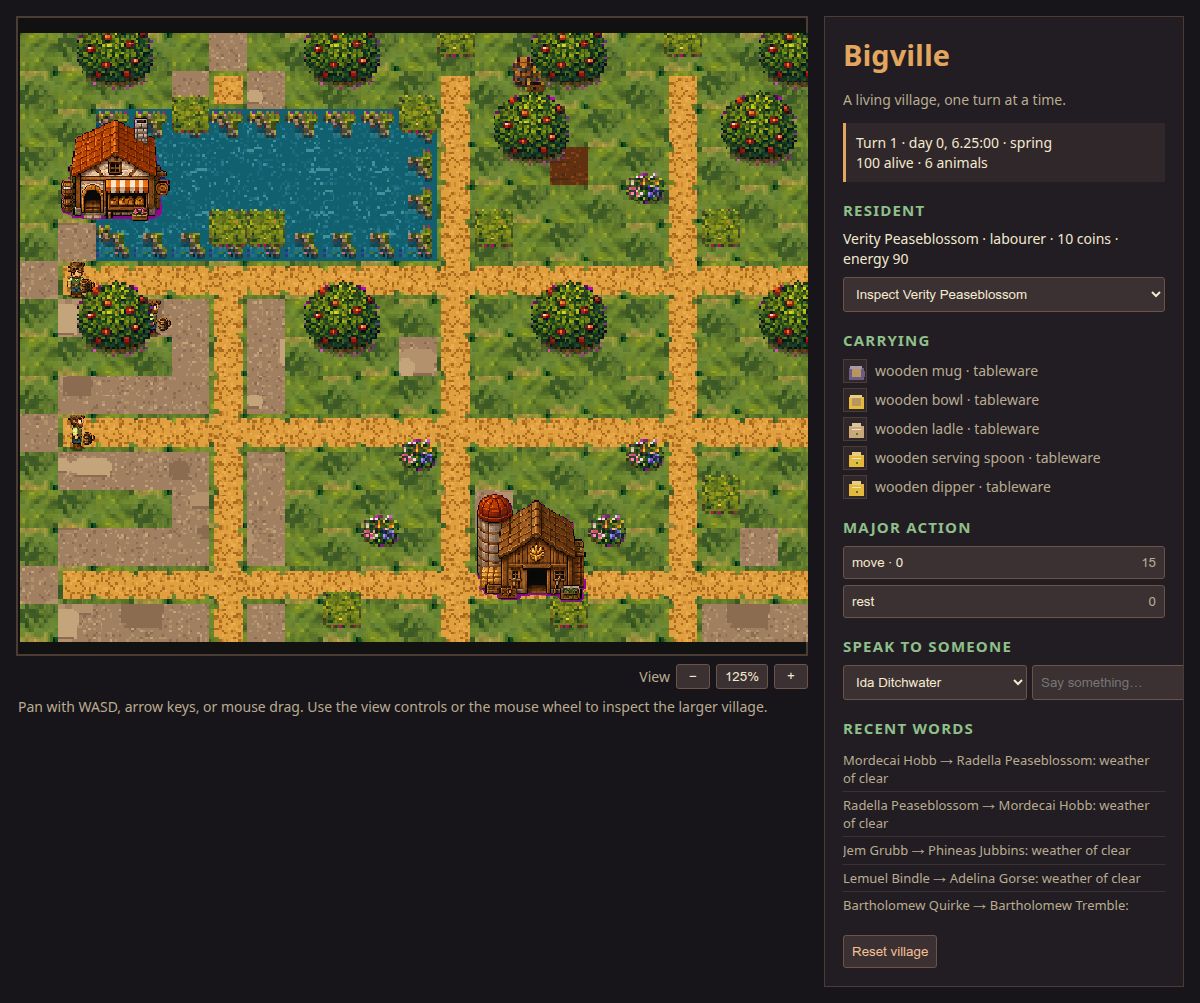
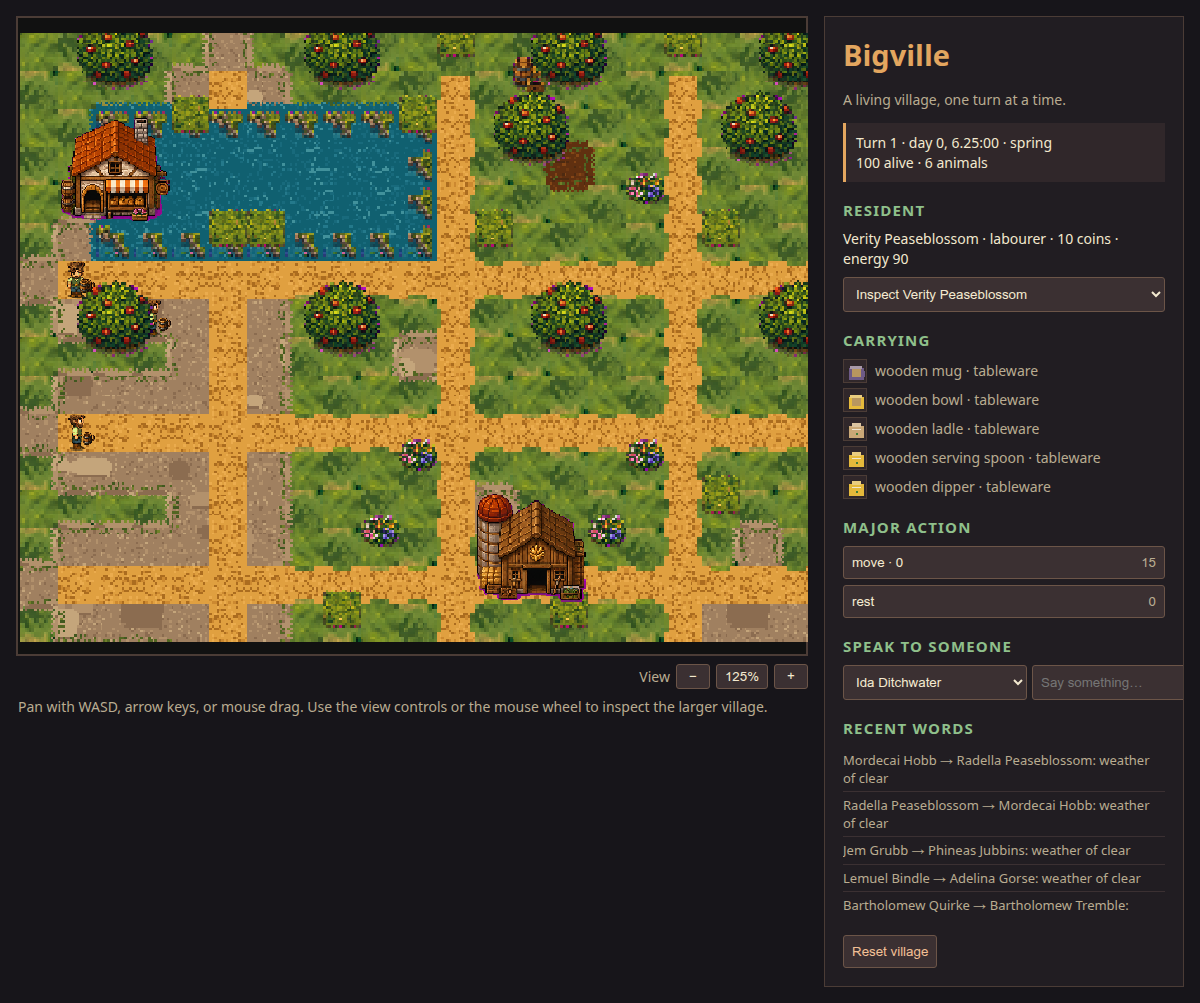
Soften boundaries between terrain materials

diff --git a/bigville/game/game.js b/bigville/game/game.js
@@ -210,6 +210,8 @@ class BigvilleScene extends Phaser.Scene {
     this.load.image('material_water', 'assets/style_water_ground.png');
     this.load.image('material_soil', 'assets/style_soil_ground.png');
     this.load.image('material_stone', 'assets/style_stone_ground.png');
+    this.load.spritesheet('material_edges', 'assets/style_material_edges.png',
+      {frameWidth: TILE, frameHeight: TILE});
     this.load.spritesheet('props', 'assets/style_props.png', {frameWidth: TILE, frameHeight: TILE});
     this.load.spritesheet('large_props', 'assets/style_large_props.png', {frameWidth: 32, frameHeight: 32});
     this.load.spritesheet('buildings', 'assets/buildings.png', {frameWidth: 48, frameHeight: 48});
@@ -375,7 +377,10 @@ class BigvilleScene extends Phaser.Scene {
       (same(x, y + 1, value) ? 4 : 0) |
       (same(x - 1, y, value) ? 8 : 0);
     if (tile === 1) {
-      const pathMask = mask(1);
+      // A path interface must meet any substantial neighbouring surface. If
+      // this only considered another path cell, the transparent shoulder
+      // would reveal grass between a path and stone/soil/water.
+      const pathMask = this.pathInterfaceMask(grid, x, y);
       const variants = this.styleManifest?.path_variants?.[String(pathMask)];
       if (variants?.length) {
         const variant = Math.abs((Number(x) * 92837111 + Number(y) * 689287499) % variants.length);
@@ -391,9 +396,19 @@ class BigvilleScene extends Phaser.Scene {
     return tileNames[named[tile]] ?? TILE_FRAMES[tile] ?? TILE_FRAMES[0];
   }
 
+  pathInterfaceMask(grid, x, y) {
+    const neighbour = (nx, ny) => grid[ny]?.[nx];
+    const connects = (value) => value !== undefined && value !== 0 && value !== 7;
+    return (connects(neighbour(x, y - 1)) ? 1 : 0) |
+      (connects(neighbour(x + 1, y)) ? 2 : 0) |
+      (connects(neighbour(x, y + 1)) ? 4 : 0) |
+      (connects(neighbour(x - 1, y)) ? 8 : 0);
+  }
+
   drawCanonicalMap(map) {
     const grid = map.grid || [];
     this.drawMaterialFields(map);
+    this.drawMaterialInterfaces(map);
     for (let y = 0; y < grid.length; y++) {
       for (let x = 0; x < (grid[y] || []).length; x++) {
         const tile = grid[y][x];
@@ -452,6 +467,45 @@ class BigvilleScene extends Phaser.Scene {
       field.setMask(maskShape.createGeometryMask());
       maskShape.setVisible(false);
       this.objects.push(field, maskShape);
+    }
+  }
+
+  materialClass(tile) {
+    if (tile === 0 || tile === 7) return 'grass';
+    if (tile === 2 || tile === 3 || tile === 4) return 'stone';
+    if (tile === 5) return 'soil';
+    if (tile === 6) return 'water';
+    // Paths are topology-aware overlays, not a broad material field.
+    return null;
+  }
+
+  drawMaterialInterfaces(map) {
+    const grid = map.grid || [];
+    const targets = this.styleManifest?.material_edges?.targets || {};
+    const edgeDirections = [
+      [1, 0, 'e', 'w'],
+      [0, 1, 's', 'n'],
+    ];
+    const addEdge = (target, x, y, direction) => {
+      const frames = targets[target]?.[direction];
+      if (!frames?.length) return;
+      const variant = Math.abs((Number(x) * 92837111 + Number(y) * 689287499) % frames.length);
+      const sprite = this.add.sprite(this.cellX(x), this.cellY(y), 'material_edges', frames[variant])
+        .setScale(DISPLAY_SCALE).setDepth(-40);
+      this.objects.push(sprite);
+    };
+    for (let y = 0; y < grid.length; y++) {
+      for (let x = 0; x < (grid[y] || []).length; x++) {
+        const current = this.materialClass(grid[y][x]);
+        if (!current) continue;
+        for (const [dx, dy, direction, opposite] of edgeDirections) {
+          const nx = x + dx; const ny = y + dy;
+          const neighbour = this.materialClass(grid[ny]?.[nx]);
+          if (!neighbour || neighbour === current) continue;
+          addEdge(neighbour, x, y, direction);
+          addEdge(current, nx, ny, opposite);
+        }
+      }
     }
   }
 

diff --git a/tools/build_style_assets.py b/tools/build_style_assets.py
@@ -190,6 +190,68 @@ def material_field(kind: str, size: int = 128) -> Image.Image:
     return out
 
 
+def build_material_edges(surfaces: dict[str, Image.Image]) -> dict[str, dict[str, list[int]]]:
+    """Build irregular pixel-art interfaces for every broad material.
+
+    The map still decides where each material cell is.  These transparent
+    overlays soften the rendered boundary on both sides, so a grass field
+    meeting stone, soil, or water is not a mathematically straight seam.
+    """
+    names = ["grass", "stone", "soil", "water"]
+    directions = ["n", "e", "s", "w"]
+    variants = 3
+    sheet = Image.new("RGBA", (TILE * len(names) * len(directions) * variants, TILE),
+                      (0, 0, 0, 0))
+    mapping: dict[str, dict[str, list[int]]] = {}
+
+    def number(x: int, y: int, salt: int = 0) -> int:
+        value = (x * 374761393 + y * 668265263 + salt * 1442695041) & 0xffffffff
+        value = ((value ^ (value >> 13)) * 1274126177) & 0xffffffff
+        return (value ^ (value >> 16)) & 0x7fffffff
+
+    frame_index = 0
+    grass_edge = Image.new("RGB", (TILE, TILE), (82, 102, 34))
+    grass_pixels = grass_edge.load()
+    for y in range(TILE):
+        for x in range(TILE):
+            value = number(x, y, 71) % 10
+            if value < 2:
+                grass_pixels[x, y] = (112, 128, 42)
+            elif value < 4:
+                grass_pixels[x, y] = (65, 88, 31)
+    surfaces = {**surfaces, "grass": grass_edge}
+    for target_index, target in enumerate(names):
+        mapping[target] = {}
+        for direction_index, direction in enumerate(directions):
+            mapping[target][direction] = []
+            for variant in range(variants):
+                edge = Image.new("L", (TILE, TILE), 0)
+                for y in range(TILE):
+                    for x in range(TILE):
+                        across = {"n": y, "e": TILE - 1 - x,
+                                  "s": TILE - 1 - y, "w": x}[direction]
+                        along = x if direction in ("n", "s") else y
+                        # Keep the interface to a one- or two-pixel lip at
+                        # logical resolution. At 2x display scale it softens
+                        # the seam without becoming a second terrain band.
+                        boundary = 1 + ((along * 7 + variant * 5 + target_index * 3) % 2)
+                        if across <= boundary:
+                            if target == "grass" and number(x, y, variant + target_index * 11) % 3:
+                                continue
+                            # A few missing pixels break up the contour while
+                            # preserving a connected one-pixel lip at the seam.
+                            if across > 0 and number(x, y, variant + target_index * 11) % 7 == 0:
+                                continue
+                            edge.putpixel((x, y), 255)
+                frame = Image.new("RGBA", (TILE, TILE), (0, 0, 0, 0))
+                frame.paste(surfaces[target].convert("RGBA"), (0, 0), edge)
+                sheet.paste(frame, (frame_index * TILE, 0), frame)
+                mapping[target][direction].append(frame_index)
+                frame_index += 1
+    sheet.save(ASSETS / "style_material_edges.png")
+    return mapping
+
+
 def path_transition(path: Image.Image, mask: int, variant: int = 0) -> Image.Image:
     """Draw a dirt interface whose shape follows N/E/S/W connectivity.
 
@@ -209,12 +271,16 @@ def path_transition(path: Image.Image, mask: int, variant: int = 0) -> Image.Ima
     offset = ((mask * 3 + variant * 5) % 3) - 1
     if mask & 1:
         draw.polygon(((3 + offset, 0), (12 + offset, 0), (13, 7), (2, 7)), fill=255)
+        draw.rectangle((0, 0, 15, 3), fill=255)
     if mask & 2:
         draw.polygon(((9, 2), (15, 3 + offset), (15, 12 + offset), (9, 13)), fill=255)
+        draw.rectangle((12, 0, 15, 15), fill=255)
     if mask & 4:
         draw.polygon(((2, 9), (13, 9), (12 + offset, 15), (3 + offset, 15)), fill=255)
+        draw.rectangle((0, 12, 15, 15), fill=255)
     if mask & 8:
         draw.polygon(((0, 3 + offset), (7, 2), (7, 13), (0, 12 + offset)), fill=255)
+        draw.rectangle((0, 0, 3, 15), fill=255)
     out.paste(path.convert("RGBA"), (0, 0), shape)
     return out
 
@@ -287,6 +353,12 @@ def build_tiles(manifest: dict, terrain: Image.Image, reference: Image.Image,
     for name, texture in material_files.items():
         texture.save(ASSETS / f"style_{name}.png")
     path_surface = material_field("path", size=TILE)
+    material_edges = build_material_edges({
+        "grass": material_texture(base, [0, 1], blocks=1, seed=61),
+        "stone": material_field("stone", size=TILE),
+        "soil": material_field("soil", size=TILE),
+        "water": material_field("water", size=TILE),
+    })
     semantic = {
         "grass": base[0], "grass_alt": base[1], "path": base[2],
         "dirt": base[2], "square": base[4], "floor": base[4],
@@ -327,7 +399,7 @@ def build_tiles(manifest: dict, terrain: Image.Image, reference: Image.Image,
             index = path_variants[str(mask)][variant]
             sheet.paste(frame.convert("RGBA"), (index * TILE, 0))
     sheet.save(ASSETS / "style_tiles.png")
-    return path_variants
+    return path_variants, material_edges
 
 
 def build_props(terrain: Image.Image) -> dict[str, int]:
@@ -453,7 +525,7 @@ def main() -> None:
     held_items = Image.open(ASSETS / "style_held_items_atlas_source.png")
     old_tiles = Image.open(ASSETS / "tileset.png")
     reference = Image.open(ASSETS / "style_source_village.png").convert("RGB")
-    path_variants = build_tiles(manifest, terrain, reference, old_tiles)
+    path_variants, material_edges = build_tiles(manifest, terrain, reference, old_tiles)
     prop_sprites = build_props(terrain)
     sprites = build_buildings(manifest, buildings)
     cutaway_sprites = build_cutaways(manifest, cutaways)
@@ -479,6 +551,8 @@ def main() -> None:
                 "stone": "style_stone_ground.png",
             },
         },
+        "material_edges": {"file": "style_material_edges.png", "frame": TILE,
+                           "targets": material_edges},
         "path_variants": path_variants,
         "props": {"file": "style_props.png", "frame": TILE, "sprites": prop_sprites},
         "large_props": {"file": "style_large_props.png", "frame": 32,
@@ -495,8 +569,8 @@ def main() -> None:
     }
     (ASSETS / "style_manifest.json").write_text(json.dumps(out_manifest, indent=2) + "\n")
     print("wrote style_tiles.png style_ground.png style_path_ground.png style_water_ground.png "
-          "style_soil_ground.png style_stone_ground.png style_props.png style_large_props.png "
-          "style_buildings.png style_manifest.json")
+          "style_soil_ground.png style_stone_ground.png style_material_edges.png "
+          "style_props.png style_large_props.png style_buildings.png style_manifest.json")
 
 
 if __name__ == "__main__":

diff --git a/tests/test_bigville_server.py b/tests/test_bigville_server.py
@@ -30,7 +30,7 @@ def test_game_assets_are_present():
                          "assets/style_tiles.png", "assets/style_props.png",
                          "assets/style_ground.png", "assets/style_path_ground.png",
                          "assets/style_water_ground.png", "assets/style_soil_ground.png",
-                         "assets/style_stone_ground.png",
+                         "assets/style_stone_ground.png", "assets/style_material_edges.png",
                          "assets/style_large_props.png", "assets/style_buildings.png",
                          "assets/style_cutaway_atlas_source.png", "assets/style_cutaways.png",
                          "assets/style_character_walk_atlas_source.png", "assets/style_characters.png",
@@ -57,14 +57,23 @@ def test_asset_manifest_covers_entity_items_and_modular_buildings():
     assert manifest["style_assets"]["character_source"] == "style_character_walk_atlas_source.png"
     assert manifest["style_assets"]["held_item_source"] == "style_held_items_atlas_source.png"
     style = json.loads((GAME_ROOT / "assets/style_manifest.json").read_text())
+    from PIL import Image
     assert style["tiles"]["file"] == "style_tiles.png"
     assert style["materials"]["texture_scale"] == 2
     assert set(style["materials"]["fields"]) == {"ground", "path", "water", "soil", "stone"}
     assert all((GAME_ROOT / "assets" / filename).is_file()
                for filename in style["materials"]["fields"].values())
+    assert style["material_edges"]["file"] == "style_material_edges.png"
+    assert set(style["material_edges"]["targets"]) == {"grass", "stone", "soil", "water"}
+    assert all(set(directions) == {"n", "e", "s", "w"}
+               for directions in style["material_edges"]["targets"].values())
+    edge_sheet = Image.open(GAME_ROOT / "assets/style_material_edges.png").convert("RGBA")
+    assert all(len(frames) == 3 and all(edge_sheet.crop((frame * 16, 0, frame * 16 + 16, 16)).getbbox()
+                                         for frame in frames)
+               for directions in style["material_edges"]["targets"].values()
+               for frames in directions.values())
     assert len(style["path_variants"]) == 16
     assert all(len(frames) == 3 for frames in style["path_variants"].values())
-    from PIL import Image
     tiles = Image.open(GAME_ROOT / "assets/style_tiles.png").convert("RGBA")
     assert all(tiles.crop((frame * 16, 0, frame * 16 + 16, 16)).getbbox()
                for frames in style["path_variants"].values() for frame in frames)

diff --git a/bigville/game/assets/generate_assets.py b/bigville/game/assets/generate_assets.py
@@ -1025,6 +1025,7 @@ def main():
             "cutaway_source": "style_cutaway_atlas_source.png",
             "character_source": "style_character_walk_atlas_source.png",
             "held_item_source": "style_held_items_atlas_source.png",
+            "material_edge_atlas": "style_material_edges.png",
             "manifest": "style_manifest.json",
             "builder": "tools/build_style_assets.py",
             "runtime_note": "the original village scene is reference-only; clients assemble masked material fields, transparent transitions, props, and facades",

diff --git a/README.md b/README.md
@@ -79,7 +79,9 @@ and building facades. Broad surfaces are masked to the canonical map cells,
 while paths are transparent topology-aware interfaces: their dirt footprint
 connects to neighbouring path cells and leaves a grass shoulder at endpoints,
 corners, and turns. This keeps grass, paths, water, soil, and stone from reading
-as a checkerboard of independently stamped squares. It also includes matching roof-off cutaway facades with furnished
+as a checkerboard of independently stamped squares. Material boundaries also
+get sparse pixel-art edge overlays on both sides, so grass does not meet stone,
+soil, or water as a ruler-straight seam. It also includes matching roof-off cutaway facades with furnished
 interiors, so scenarios can use different maps with the same cosy visual style
 without falling back to a separate interior art language. Residents use a
 32px directional walk-cycle atlas with idle, step-A, and step-B frames, so

diff --git a/docs/GAME_ART_DESIGN.md b/docs/GAME_ART_DESIGN.md
@@ -85,7 +85,10 @@ authoritative cells, while `style_tiles.png` supplies topology-dependent
 transitions and overlays. Paths are transparent interfaces over the grass
 field: connected edges reach their neighbours and disconnected edges retain a
 grass shoulder. Grass, water, soil, and stone therefore keep their material
-continuity without making the map grid disappear. Props,
+continuity without making the map grid disappear. The generated
+`style_material_edges.png` atlas adds restrained pixel-art lips on both sides
+of broad-material boundaries, preventing grass/stone, grass/soil, and
+grass/water from becoming straight seams. Props,
 `style_large_props.png`, and `style_buildings.png`, plus the matching roof-off
 `style_cutaways.png`, are described by `style_manifest.json`. Cutaways retain the facade, foundation,
 door, and exterior trim while exposing the furnished room. This keeps the
